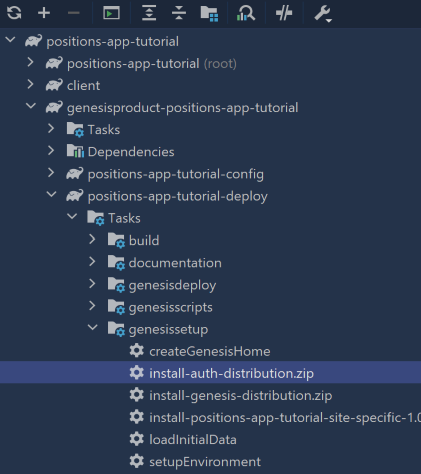
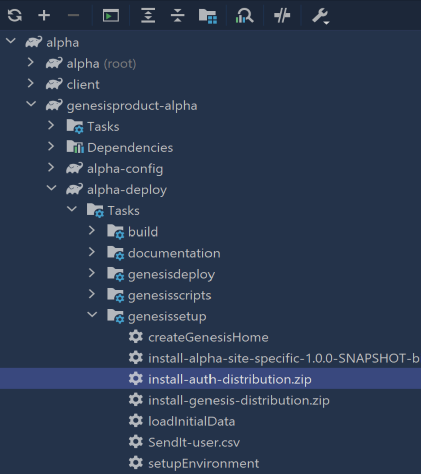
docs: renamed new images and added alpha images back

diff --git a/docs/01_getting-started/04_go-to-the-next-level/17_see-it-work.md b/docs/01_getting-started/04_go-to-the-next-level/17_see-it-work.md
@@ -39,7 +39,7 @@ wsl-user=genesis
 
 if you haven't already, you should have a project artifact built using the following gradle task **genesisproduct-positions-app-tutorial**/**Tasks**/**build**/**assemble**.
 
-![](/img/assemble-server.png)
+![](/img/assemble-server-positions.png)
 
 The following environment variables need to be set in your `.bashrc` as follows:
 
@@ -68,7 +68,7 @@ We will run `setupEnvironment` under `genesissetup` first (we only need to run i
 ```
 or from the dropdown menu:
 
-![](/img/setup-environment.png)
+![](/img/setup-environment-positions.png)
 
 After this command is complete, we will have a basic Genesis server running.
 
@@ -81,7 +81,7 @@ As our application requires authentication, we have to install the Genesis Auth 
 
 or from the dropdown menu:
 
-![](/img/install-auth.png)
+![](/img/install-auth-positions.png)
 
 ### Deploy the site-specific configuration
 As our application will use the site-specific folder to override the standard definitions, we have to run this task:
@@ -90,7 +90,7 @@ As our application will use the site-specific folder to override the standard de
 ./gradlew :genesisproduct-positions-app-tutorial:positions-app-tutorial-deploy:install-positions-app-tutorial-site-specific-1.0.0-SNAPSHOT-bin.zip-distribution.zip #On the IntelliJ terminal
 ```
 
-![](/img/install-site-specific.png)
+![](/img/install-site-specific-positions.png)
 
 ### Add a user
 
@@ -114,7 +114,7 @@ To run the task, call:
 
 or from the dropdown menu:
 
-![](/img/load-initial-data.png)
+![](/img/load-initial-data-positions.png)
 
 Now we are going to use Genesis `DbMon` to run some queries on the database.
 
@@ -131,7 +131,7 @@ Run `DbMon` to check that the user has been created:
 
 or from the dropdown menu:
 
-![](/img/using-DbMon.png)
+![](/img/using-DbMon-positions.png)
 
 Once you are inside the console, type `table USER` and then `search 1`. If imported correctly, the user JaneDee should be listed:
 ```
@@ -161,7 +161,7 @@ Now we have to deploy our application, the positions-app-tutorial product:
 
 or from the dropdown menu:
 
-![](/img/deploy-alpha-product.png)
+![](/img/deploy-alpha-product-positions.png)
 
 :::tip
 This will take the last built distribution. It does not run a project build as part of the task. Make sure you have already built the project before deploying it.
@@ -190,7 +190,7 @@ Now, let's run the Genesis command `mon` to see if all processes are up and runn
 ```
 or from the dropdown menu:
 
-![](/img/using-mon.png)
+![](/img/using-mon-positions.png)
 
 We should see something like this
 

diff --git a/docs/01_getting-started/04_go-to-the-next-level/03_data-model.md b/docs/01_getting-started/04_go-to-the-next-level/03_data-model.md
@@ -71,7 +71,7 @@ From the Gradle menu on the right of Intellij, this is:
 
 **genesisproduct-positions-app-tutorial**/**positions-app-tutorial-dictionary-cache**/**genesis-generated-fields**/**Tasks**/**genesis**/**generateFields**
 
-![](/img/build-gradle-kts-fields.png)
+![](/img/build-gradle-kts-fields-positions.png)
 
 :::note Why do I have to run this Gradle task?
 
@@ -146,7 +146,7 @@ From the Gradle menu, this is:
 
 **genesisproduct-positions-app-tutorial**/**positions-app-tutorial-dictionary-cache**/**genesis-generated-dao**/**Tasks**/**genesis**/**generateDAO**
 
-![](/img/build-gradle-kts-generated-dao.png)
+![](/img/build-gradle-kts-generated-dao-positions.png)
 
 This script generates the DAOs (data repos) from the tables, and they are available to be imported in your code.
 
@@ -199,7 +199,7 @@ From the Gradle menu, this is:
 
 **genesisproduct-positions-app-tutorial**/**positions-app-tutorial-dictionary-cache**/**genesis-generated-view**/**Tasks**/**genesis**/**generateView**
 
-![](/img/build-gradle-kts-generated-view.png)
+![](/img/build-gradle-kts-generated-view-positions.png)
 
 <!-- Run **positions-app-tutorial-config:assemble** to make the view ready for use. -->
 

diff --git a/docs/01_getting-started/04_go-to-the-next-level/04_events.md b/docs/01_getting-started/04_go-to-the-next-level/04_events.md
@@ -88,7 +88,7 @@ Please see [here](/server-modules/configuring-runtime/processes/) for a detailed
 
 From the Gradle menu on the right of Intellij, this is: **genesisproduct-positions-app-tutorial**/**Tasks**/**build/assemble**.
 
-![](/img/assemble-server.png)
+![](/img/assemble-server-positions.png)
 
 :::info HTTP Endpoints
  It's important to note that most resources, such as Event Handlers and Data Servers, are exposed as [HTTP endpoints](/server-modules/integration/rest-endpoints/introduction/) automatically by the Genesis platform - without any additional code. This enables you to test those resources from HTTP clients, such as Postman. Alternatively, you can use Genesis Console, which gives you a simple way of testing components from a nice web UI.
